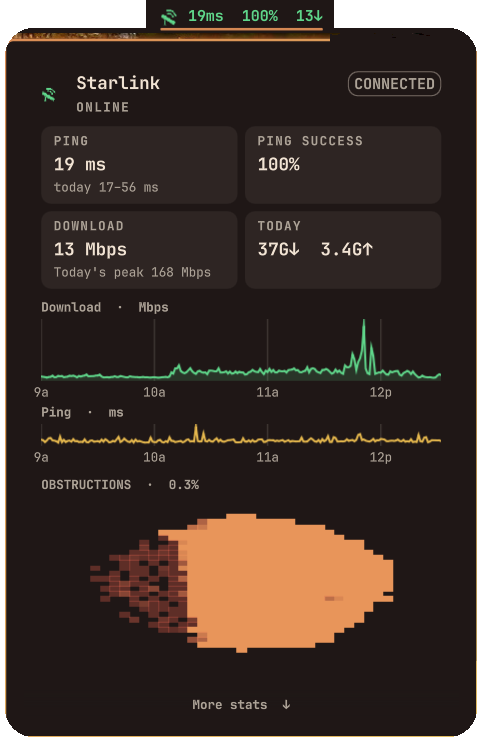
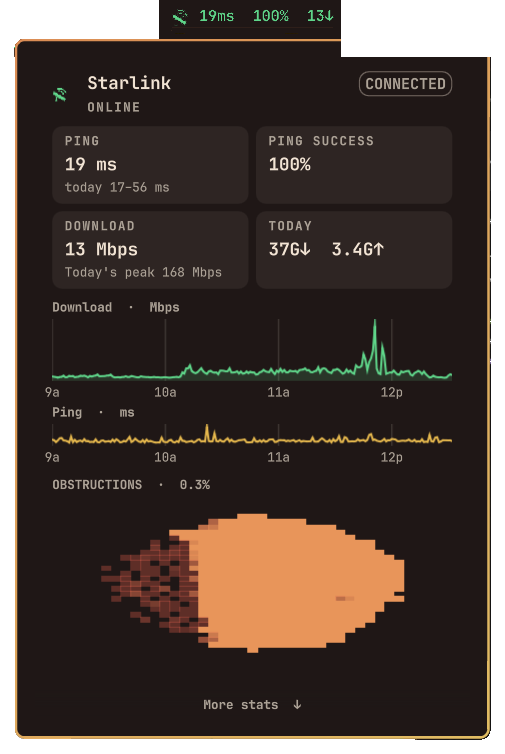
Fix panel screenshot frame and drop wallpaper bleed
Keep the full gold border and isolate the chip on transparency so
theme colors no longer leak at the corners.

diff --git a/README.md b/README.md
@@ -3,7 +3,7 @@
 Unofficial Omarchy bar widget for a local Starlink dish. It is not affiliated
 with SpaceX or Starlink.
 
-![Starlink bar chip and details panel](screenshot.png)
+![Starlink bar chip and details panel](panel.png)
 
 The chip shows **latency**, **ping success**, and **last-minute active
 download**. Left-click opens today's charts, obstruction map, and dish
